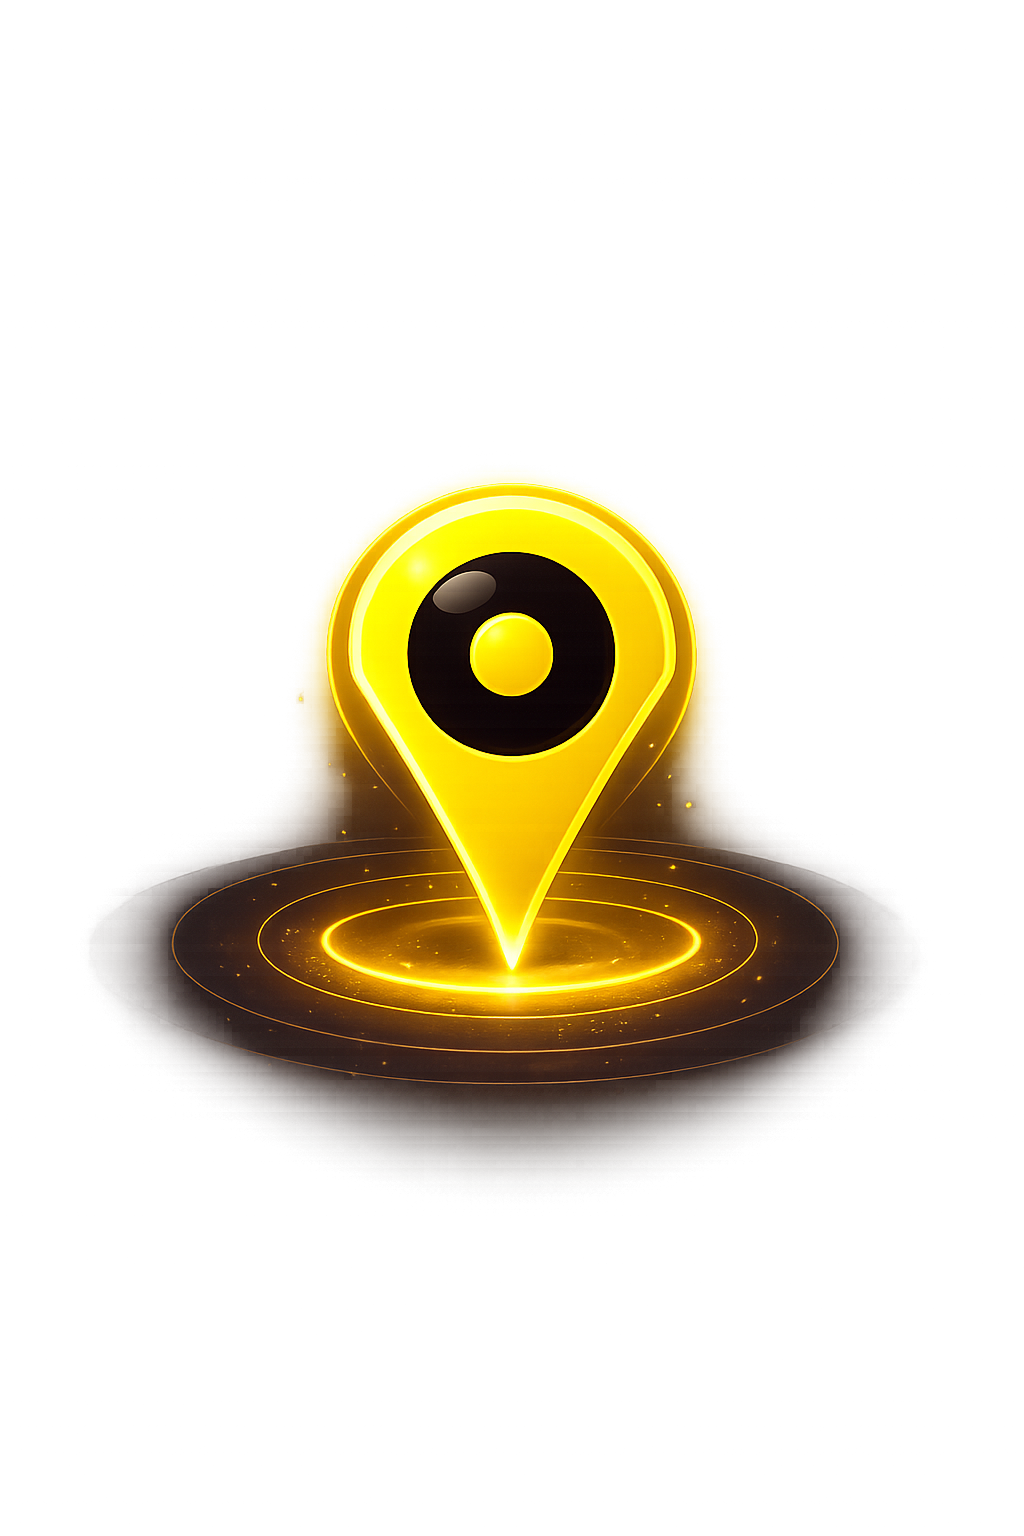
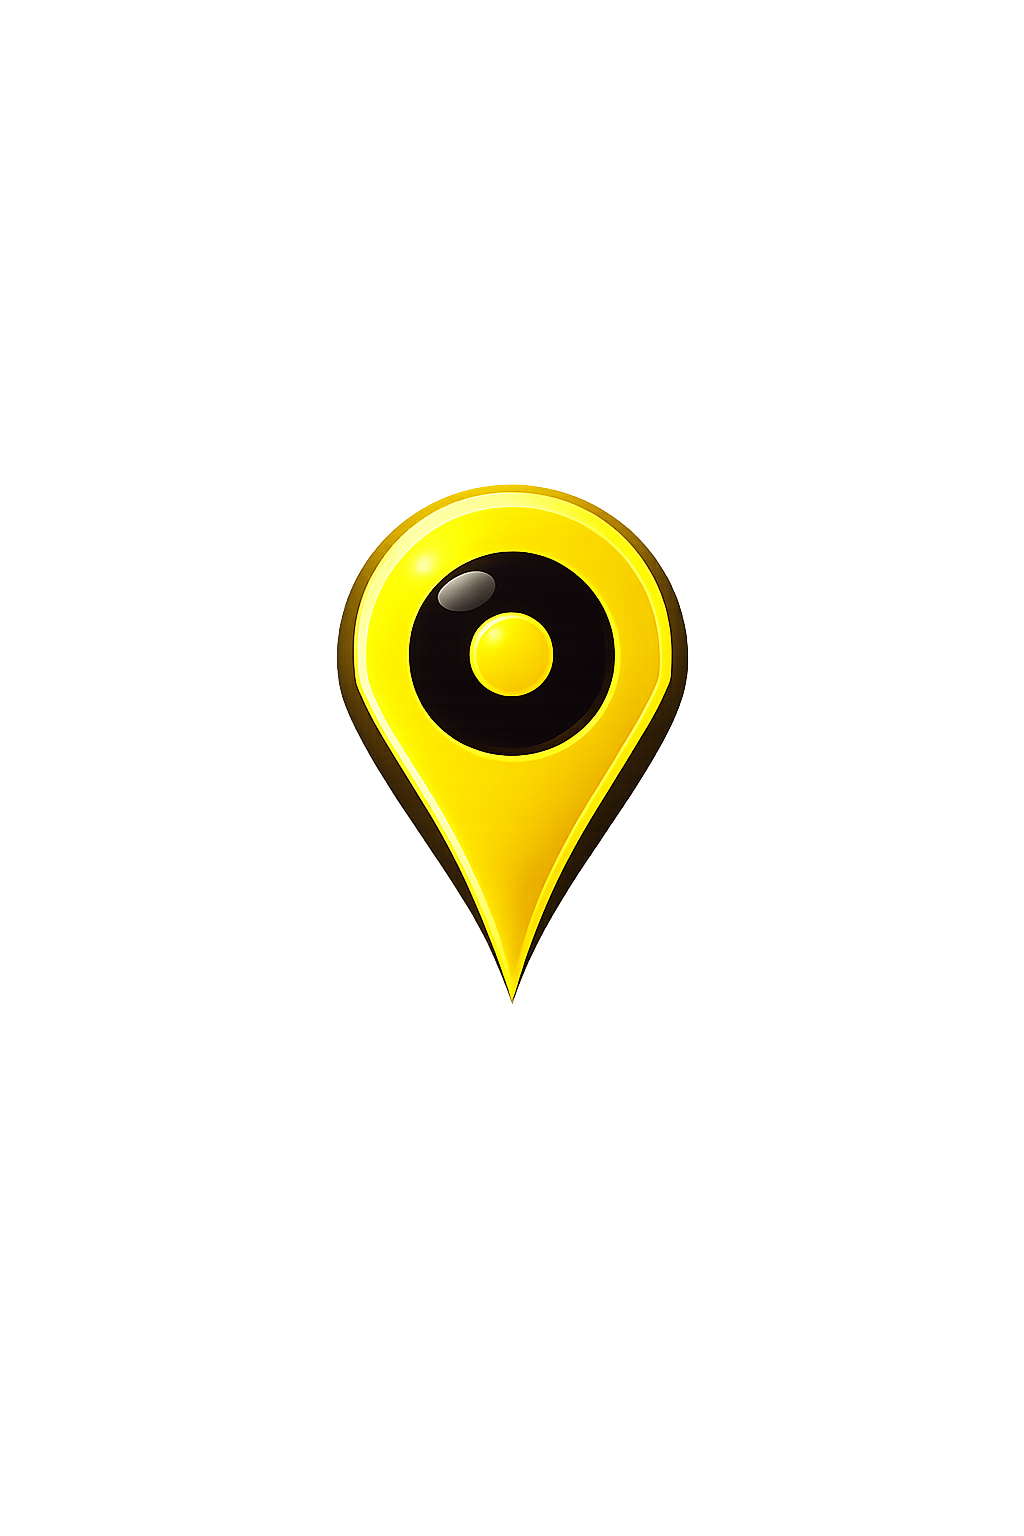
auto-commit for bd1efd5d-a3e8-4630-90cd-c2a9881a03c2

Changed region(s): [[0.0938, 0.3125, 0.875, 0.7812]]

diff --git a/frontend/app/index.tsx b/frontend/app/index.tsx
@@ -396,8 +396,65 @@ export default function WelcomeScreen() {
             </View>
           </View>
 
-          {/* Location Pin Image - BELOW the text */}
-          <View style={styles.pinImageContainer}>
+          {/* Location Pin with Animated Radar Waves */}
+          <View style={styles.pinWithRadarContainer}>
+            {/* Animated radar waves */}
+            <View style={styles.radarWavesContainer}>
+              <Animated.View
+                style={[
+                  styles.radarWave,
+                  styles.radarWaveOuter,
+                  {
+                    transform: [
+                      {
+                        scale: pulseAnim.interpolate({
+                          inputRange: [1, 1.8],
+                          outputRange: [1, 1.4],
+                        }),
+                      },
+                    ],
+                    opacity: pulseAnim.interpolate({
+                      inputRange: [1, 1.8],
+                      outputRange: [0.4, 0],
+                    }),
+                  },
+                ]}
+              />
+              <Animated.View
+                style={[
+                  styles.radarWave,
+                  styles.radarWaveMiddle,
+                  {
+                    transform: [
+                      {
+                        scale: pulseAnim.interpolate({
+                          inputRange: [1, 1.8],
+                          outputRange: [1, 1.25],
+                        }),
+                      },
+                    ],
+                    opacity: pulseAnim.interpolate({
+                      inputRange: [1, 1.8],
+                      outputRange: [0.6, 0.1],
+                    }),
+                  },
+                ]}
+              />
+              <Animated.View
+                style={[
+                  styles.radarWave,
+                  styles.radarWaveInner,
+                  {
+                    opacity: pulseAnim.interpolate({
+                      inputRange: [1, 1.8],
+                      outputRange: [0.8, 0.3],
+                    }),
+                  },
+                ]}
+              />
+            </View>
+            
+            {/* Pin Image */}
             <Animated.Image
               source={require('../assets/images/location-pin.png')}
               style={[
@@ -407,7 +464,7 @@ export default function WelcomeScreen() {
                     {
                       scale: pulseAnim.interpolate({
                         inputRange: [1, 1.8],
-                        outputRange: [1, 1.05],
+                        outputRange: [1, 1.03],
                       }),
                     },
                   ],
@@ -623,9 +680,44 @@ const styles = StyleSheet.create({
     marginTop: 20,
     marginBottom: 10,
   },
+  pinWithRadarContainer: {
+    alignItems: 'center',
+    justifyContent: 'center',
+    marginTop: 24,
+    marginBottom: 8,
+    position: 'relative',
+    width: 120,
+    height: 120,
+  },
+  radarWavesContainer: {
+    position: 'absolute',
+    alignItems: 'center',
+    justifyContent: 'center',
+    width: '100%',
+    height: '100%',
+  },
+  radarWave: {
+    position: 'absolute',
+    borderRadius: 100,
+    borderWidth: 1.5,
+    borderColor: COLORS.goldPrimary,
+  },
+  radarWaveOuter: {
+    width: 110,
+    height: 110,
+  },
+  radarWaveMiddle: {
+    width: 85,
+    height: 85,
+  },
+  radarWaveInner: {
+    width: 60,
+    height: 60,
+  },
   pinImage: {
-    width: 180,
-    height: 180,
+    width: 65,
+    height: 85,
+    zIndex: 10,
   },
   pinHead: {
     width: 72,
@@ -762,29 +854,30 @@ const styles = StyleSheet.create({
 
   // Premium Button Styles
   premiumButton: {
-    width: '100%',
-    borderRadius: 30,
+    width: '85%',
+    borderRadius: 25,
     overflow: 'hidden',
-    marginBottom: 20,
+    marginBottom: 16,
+    alignSelf: 'center',
     ...Platform.select({
       ios: {
         shadowColor: COLORS.goldBright,
-        shadowOffset: { width: 0, height: 8 },
-        shadowOpacity: 0.4,
-        shadowRadius: 20,
+        shadowOffset: { width: 0, height: 6 },
+        shadowOpacity: 0.35,
+        shadowRadius: 15,
       },
       android: {
-        elevation: 15,
+        elevation: 12,
       },
     }),
   },
   premiumButtonGradient: {
-    paddingVertical: 18,
+    paddingVertical: 14,
     alignItems: 'center',
     justifyContent: 'center',
     borderWidth: 1,
     borderColor: 'rgba(255, 255, 255, 0.2)',
-    borderRadius: 30,
+    borderRadius: 25,
     overflow: 'hidden',
   },
   buttonShine: {
@@ -797,10 +890,10 @@ const styles = StyleSheet.create({
     transform: [{ skewX: '-20deg' }],
   },
   premiumButtonText: {
-    fontSize: 16,
-    fontWeight: '800',
+    fontSize: 14,
+    fontWeight: '700',
     color: COLORS.textDark,
-    letterSpacing: 2.5,
+    letterSpacing: 2,
   },
 
   // Sign In Styles